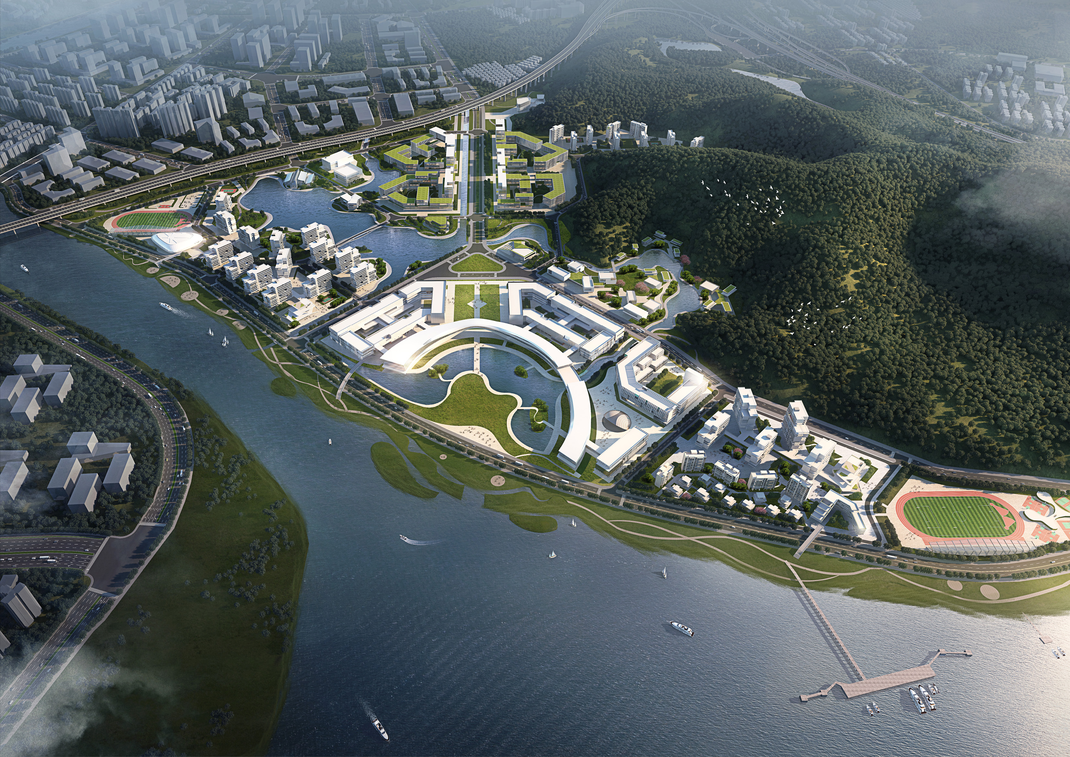
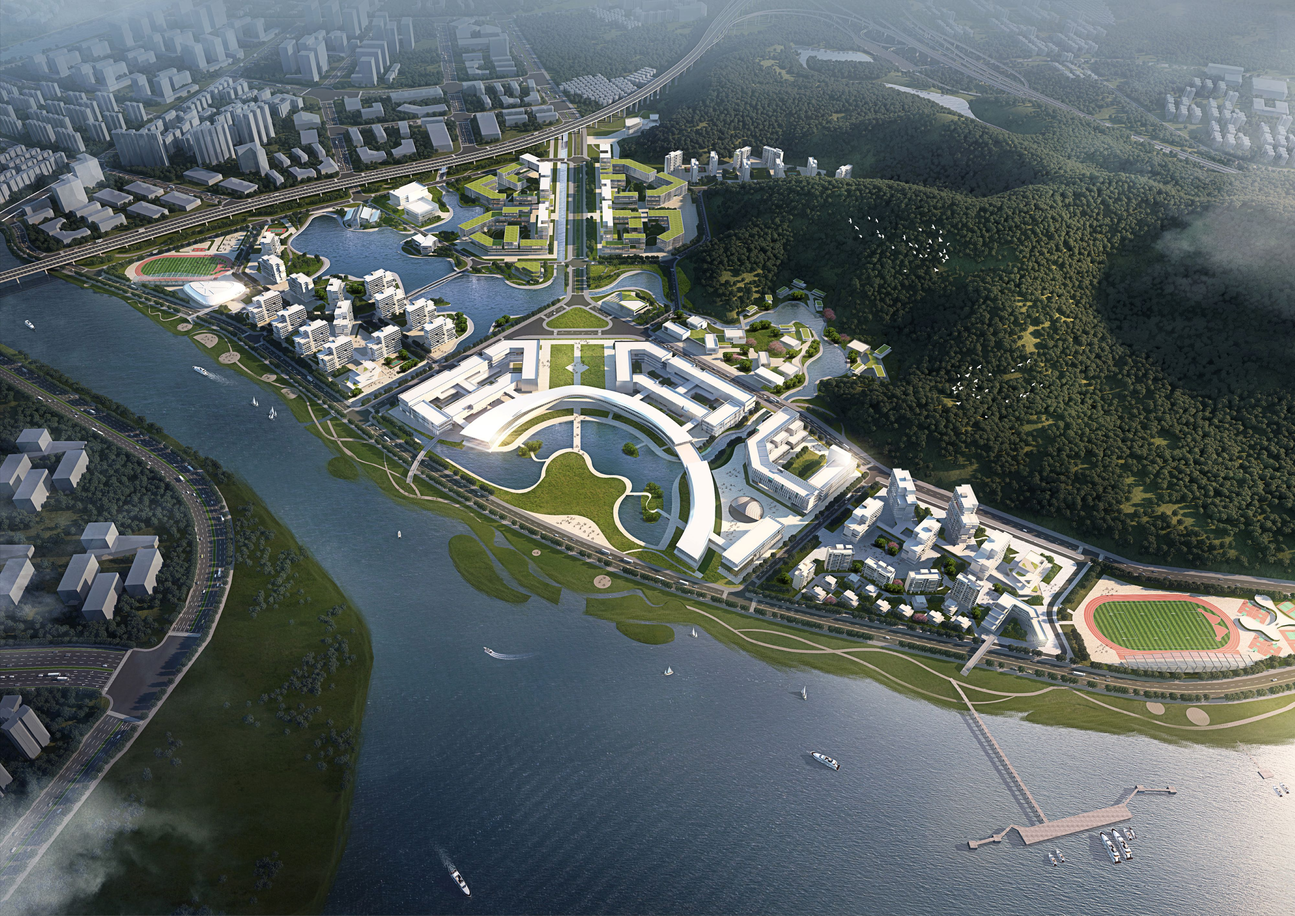
4

diff --git a/OtherWorks.html b/OtherWorks.html
@@ -169,7 +169,21 @@
             </div>
             <div class="port portfolio-masonry m-b-30">
                 <div class="portfolioContainer row" style="position: relative; height: 1730.69px;">
+
+
                     <div class="col-lg-4 2009" style="position: absolute; left: 0px; top: 0px;"><a
+                            href="javascript:void(0);">
+                            <div class="portfolio-box">
+                                <div class="portfolio-box-img"><img src="./OtherWroksImages/01.jpg" class="img-fluid"
+                                        alt="01"></div>
+                                <div class="portfolio-box-detail">
+                                    <p>Design-Concept</p>
+                                    <h4>Urban Context</h4>
+                                </div>
+                            </div>
+                        </a></div>
+                        
+                        <div class="col-lg-4 2009" style="position: absolute; left: 0px; top: 0px;"><a
                             href="javascript:void(0);">
                             <div class="portfolio-box">
                                 <div class="portfolio-box-img"><img src="./OtherWroksImages/04.jpg" class="img-fluid"
